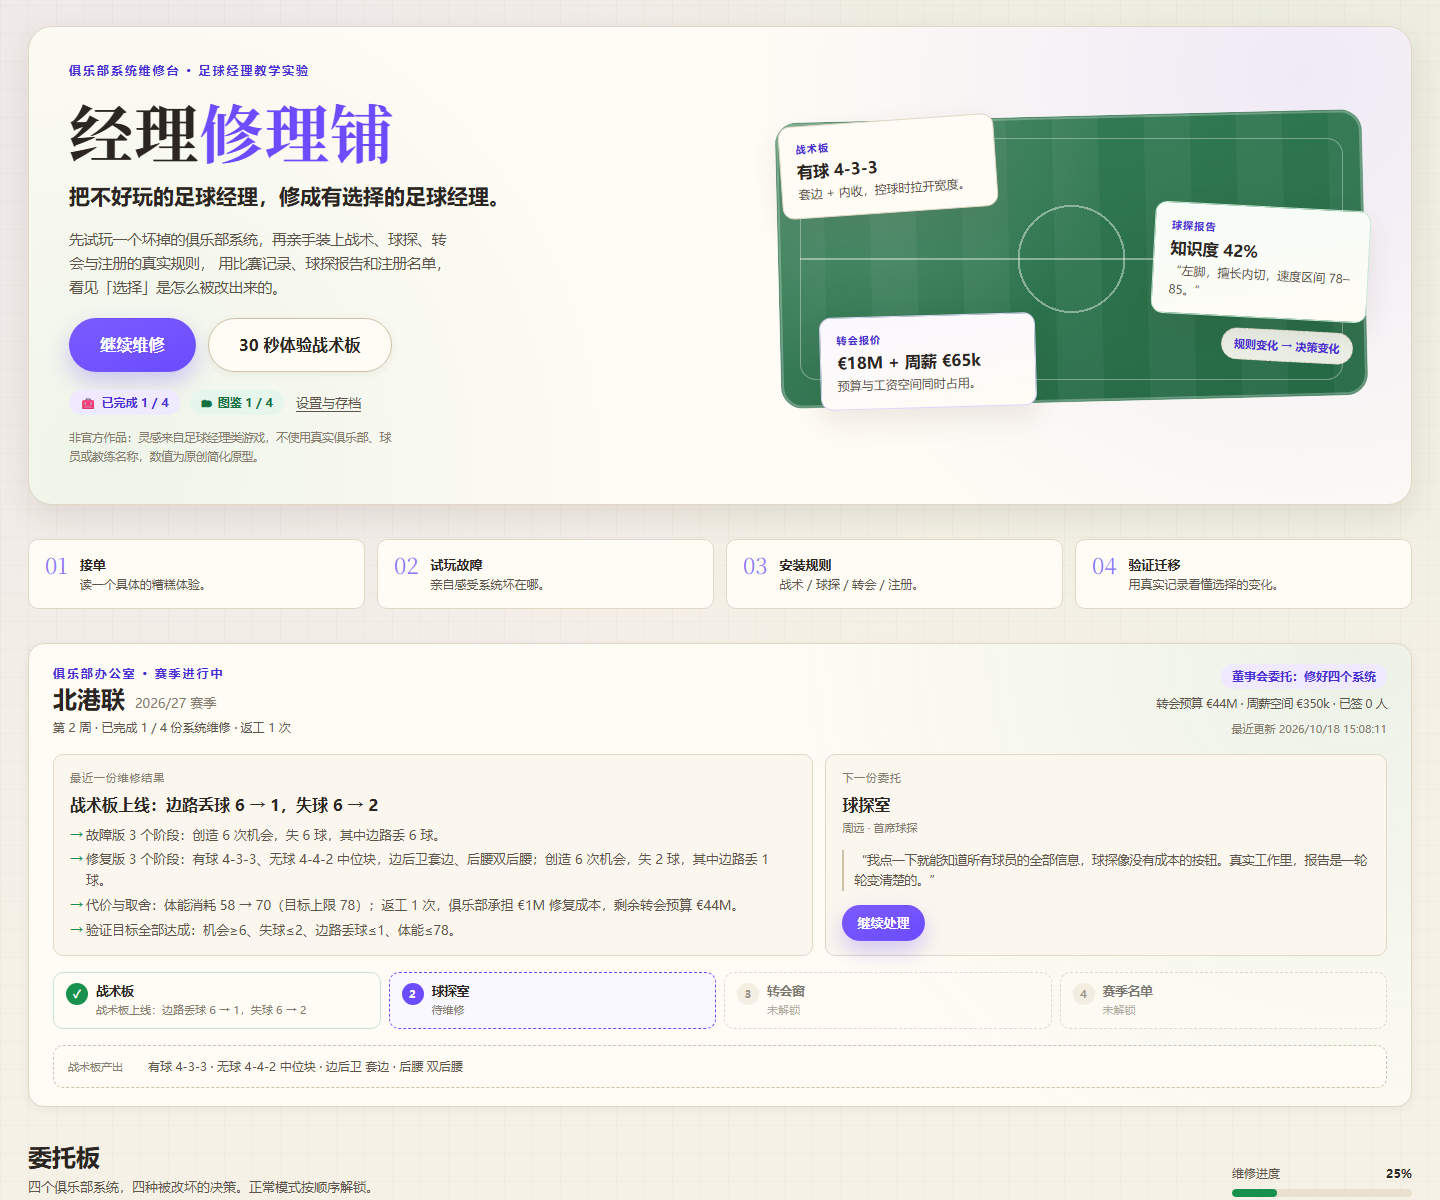
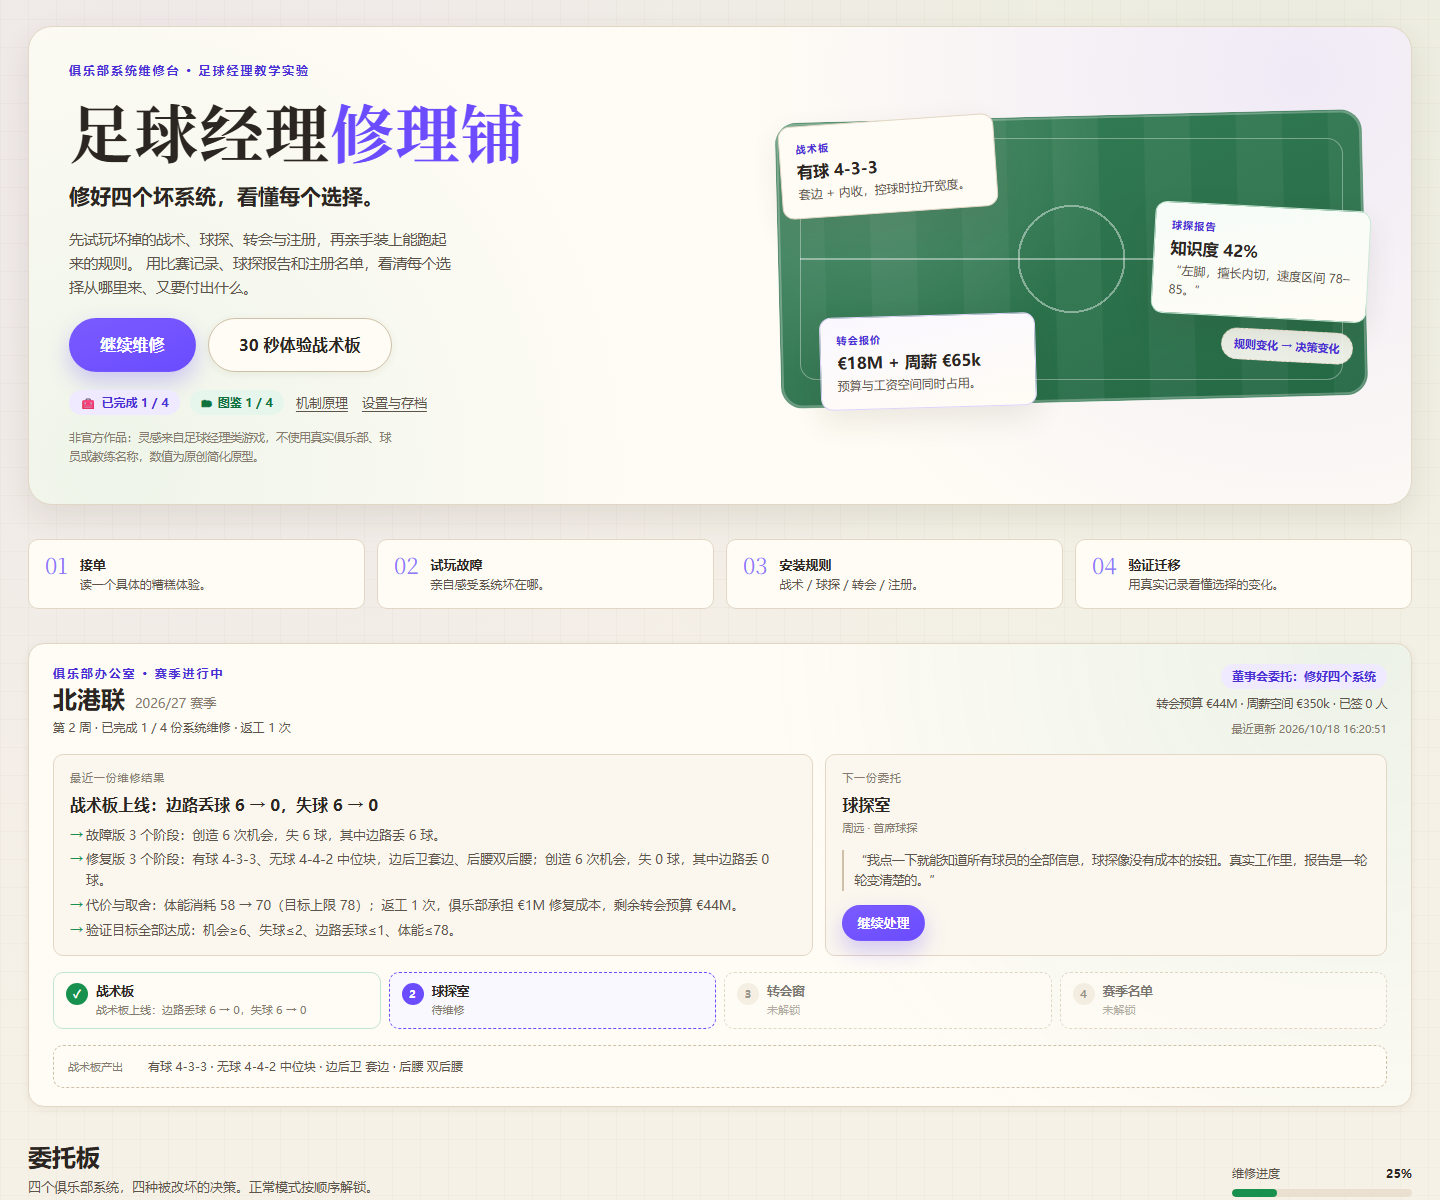
feat(v5.1): 改名足球经理修理铺，重写首屏标语与说明

Changed region(s): [[0.0312, 0.0925, 0.375, 0.2467], [0.2188, 0.3083, 0.2812, 0.3392]]

diff --git a/tests/app-flow.test.tsx b/tests/app-flow.test.tsx
@@ -1,4 +1,4 @@
-import { afterEach, beforeEach, describe, expect, it, vi } from 'vitest';
+import { afterEach, beforeEach, describe, expect, it, vi } from 'vitest';
 import { cleanup, fireEvent, render, screen } from '@testing-library/react';
 import { App } from '../src/app/App';
 import { PROGRESS_STORAGE_KEY, getDefaultProgress } from '../src/storage/persistence';
@@ -33,7 +33,7 @@ afterEach(() => {
 describe('用户流程冒烟测试（足球经理题材）', () => {
   it('从主页进入战术板，完整走完一关并解锁下一关', () => {
     render(<App />);
-    expect(screen.getByRole('heading', { level: 1 }).textContent).toContain('经理修理铺');
+    expect(screen.getByRole('heading', { level: 1 }).textContent).toContain('足球经理修理铺');
     expect(screen.getByText('委托板')).toBeTruthy();
 
     fireEvent.click(screen.getAllByRole('button', { name: '开始维修' })[0]);
@@ -68,7 +68,7 @@ describe('用户流程冒烟测试（足球经理题材）', () => {
     clickButton(/完成归档/);
 
     // finishArchive 会返回主页并写入正式进度。
-    expect(screen.getByRole('heading', { level: 1 }).textContent).toContain('经理修理铺');
+    expect(screen.getByRole('heading', { level: 1 }).textContent).toContain('足球经理修理铺');
     expect(screen.getAllByText(/已完成 1 \/ 4/).length).toBeGreaterThan(0);
     const raw = window.localStorage.getItem(PROGRESS_STORAGE_KEY);
     expect(raw).toBeTruthy();
@@ -161,7 +161,7 @@ describe('用户流程冒烟测试（足球经理题材）', () => {
     clickButton('重置全部进度');
     expect(screen.getByRole('dialog', { name: '确定重置全部进度？' })).toBeTruthy();
     clickButton('确认重置');
-    expect(screen.getByRole('heading', { level: 1 }).textContent).toContain('经理修理铺');
+    expect(screen.getByRole('heading', { level: 1 }).textContent).toContain('足球经理修理铺');
     expect(screen.getAllByText(/已完成 0 \/ 4/).length).toBeGreaterThan(0);
 
     const raw = window.localStorage.getItem(PROGRESS_STORAGE_KEY);

diff --git a/src/app/HomeScreen.tsx b/src/app/HomeScreen.tsx
@@ -40,12 +40,12 @@ export function HomeScreen() {
         <div className="hero-copy">
           <p className="eyebrow">俱乐部系统维修台 · 足球经理教学实验</p>
           <h1 className="hero-title">
-            经理<span className="hero-title-accent">修理铺</span>
+            足球经理<span className="hero-title-accent">修理铺</span>
           </h1>
-          <p className="hero-tagline">把不好玩的足球经理，修成有选择的足球经理。</p>
+          <p className="hero-tagline">修好四个坏系统，看懂每个选择。</p>
           <p className="hero-desc">
-            先试玩一个坏掉的俱乐部系统，再亲手装上战术、球探、转会与注册的真实规则，
-            用比赛记录、球探报告和注册名单，看见「选择」是怎么被改出来的。
+            先试玩坏掉的战术、球探、转会与注册，再亲手装上能跑起来的规则。
+            用比赛记录、球探报告和注册名单，看清每个选择从哪里来、又要付出什么。
           </p>
           <div className="hero-actions">
             <Button size="lg" onClick={() => startLevel(summary.nextLevel)}>
@@ -208,7 +208,7 @@ export function HomeScreen() {
           </button>
           。
         </p>
-        <p>《经理修理铺》v5.0 · 非官方足球经理题材 · 进度保存在本机浏览器。</p>
+        <p>《足球经理修理铺》v5.1 · 非官方足球经理题材 · 进度保存在本机浏览器。</p>
       </footer>
     </div>
   );

diff --git a/src/styles/global.css b/src/styles/global.css
@@ -1,5 +1,5 @@
 /* ==========================================================================
-   《经理修理铺》全局样式：俱乐部工作台 + 战术板 + 卡牌规则工具
+   《足球经理修理铺》全局样式：俱乐部工作台 + 战术板 + 卡牌规则工具
    ========================================================================== */
 
 :root {
@@ -2493,6 +2493,15 @@ html[data-reduce-motion='true'] *::after {
     width: 100%;
   }
 
+  .bench-arrow {
+    display: none;
+  }
+
+  .bench-mechanism {
+    left: 16px;
+    bottom: 16px;
+  }
+
   .how-strip {
     grid-template-columns: repeat(2, minmax(0, 1fr));
   }
@@ -2562,27 +2571,37 @@ html[data-reduce-motion='true'] *::after {
   }
 
   .hero-visual {
-    min-height: 280px;
+    min-height: 250px;
   }
 
   .bench-card {
-    width: 180px;
-    padding: 12px 14px;
+    width: calc(50% - 12px);
+    padding: 10px 12px;
+  }
+
+  .bench-card strong {
+    font-size: 13.5px;
+  }
+
+  .bench-card p {
+    font-size: 10.5px;
   }
 
   .bench-commission {
-    left: 0;
+    top: 14px;
+    left: 6px;
+    transform: rotate(-2deg);
   }
 
-  .bench-mechanism {
-    left: 24px;
-    bottom: 14px;
+  .bench-module {
+    top: 14px;
+    right: 6px;
+    transform: rotate(2deg);
   }
 
+  .bench-mechanism,
   .bench-arrow {
-    right: 4px;
-    bottom: 46px;
-    font-size: 10px;
+    display: none;
   }
 
   .how-strip {

diff --git a/index.html b/index.html
@@ -6,9 +6,9 @@
     <meta name="theme-color" content="#f6f1e7" />
     <meta
       name="description"
-      content="《经理修理铺》：试玩坏掉的足球经理系统，安装战术、球探、转会与注册规则，亲手理解决策如何被改变。非官方教学原型。"
+      content="《足球经理修理铺》：先试玩坏掉的战术、球探、转会与注册，再亲手装上能跑起来的规则。用比赛记录、球探报告和注册名单，看清每个选择从哪里来、又要付出什么。非官方教学原型。"
     />
-    <title>经理修理铺 · 把不好玩的足球经理，修成有选择的足球经理</title>
+    <title>足球经理修理铺 · 修好四个坏系统，看懂每个选择</title>
   </head>
   <body>
     <div id="root"></div>

diff --git a/src/content/showcaseSteps.ts b/src/content/showcaseSteps.ts
@@ -42,8 +42,8 @@ export const SHOWCASE_STEPS: ShowcaseStep[] = [
     order: 1,
     kind: 'intro',
     title: '一句话介绍产品',
-    description: '把不好玩的足球经理，修成有选择的足球经理。',
-    cue: '演示者口述：先试玩一个坏掉的俱乐部系统，再亲手装上真实规则，最后用比赛、报告与名单记录看见“选择”是怎么被改出来的。',
+    description: '修好四个坏系统，看懂每个选择。',
+    cue: '演示者口述：先试玩坏掉的战术、球探、转会与注册，再亲手装上能跑起来的规则；用比赛记录、报告和名单，看清每个选择从哪里来、又要付出什么。',
     targets: [],
     skipTransfer: false,
   },

diff --git a/README.md b/README.md
@@ -1,6 +1,6 @@
-# 经理修理铺
+# 足球经理修理铺
 
-> 把不好玩的足球经理，修成有选择的足球经理。
+> 修好四个坏系统，看懂每个选择。
 
 **在线试玩：** https://gotoanywhere2021.github.io/manager-repair-shop/
 **GitHub 仓库：** https://github.com/gotoanywhere2021/manager-repair-shop
@@ -8,7 +8,7 @@
 [![CI](https://github.com/gotoanywhere2021/manager-repair-shop/actions/workflows/ci.yml/badge.svg)](https://github.com/gotoanywhere2021/manager-repair-shop/actions/workflows/ci.yml)
 [![License: MIT](https://img.shields.io/badge/License-MIT-green.svg)](LICENSE)
 
-一个可以直接在浏览器里玩的足球经理教学游戏。你扮演俱乐部系统修理工：先试玩一个坏掉的俱乐部系统，再亲手安装战术、球探、转会与注册规则，调整参数、再次试玩，用真实的比赛记录、球探报告和注册名单理解「规则怎样改变选择」。
+一个可以直接在浏览器里玩的足球经理教学游戏。你扮演俱乐部系统修理工：先试玩坏掉的战术、球探、转会与注册，再亲手装上能跑起来的规则；用比赛记录、球探报告和注册名单，看清每个选择从哪里来、又要付出什么。
 
 - 技术栈：React 19 + TypeScript + Vite，Vitest 做规则测试。
 - 无后端、无付费 API、无密钥、无外部图片 CDN；进度保存在浏览器 localStorage。
@@ -17,6 +17,12 @@
 - 维修不再是唯一正确路径：每关有「正确模块 + 有副作用的错误模块」组成的模块池，允许装错、验证失败、回到维修台重试。
 
 ---
+
+## 本轮更新（v5.1.0）
+
+- 游戏名改为 **《足球经理修理铺》**。
+- 主标语改为「修好四个坏系统，看懂每个选择。」；首屏说明改成更具体的动作与结果，不再用「不好玩/有选择」这类抽象对比。
+- 浏览器标题、分享描述、展示模式口播、README 与机制导读同步更新。
 
 ## 本轮改进（v5.0.0）
 

diff --git a/docs/mechanism-primer.md b/docs/mechanism-primer.md
@@ -1,6 +1,6 @@
 # 机制底层知识导读
 
-> 配套游戏《经理修理铺》· 原创中文概括，参考《桌面游戏设计的基石：机制百科全书》
+> 配套游戏《足球经理修理铺》· 原创中文概括，参考《桌面游戏设计的基石：机制百科全书》
 
 这份导读回答一个问题：**为什么修好一条规则，会让游戏突然“有得选”？**
 
@@ -20,7 +20,7 @@
 4. **体验**：紧张、犹豫、后悔、成就感分别由哪条规则产生？
 5. **迁移**：换一个情境，这个结构还成立吗？
 
-《经理修理铺》的每一关都按这个顺序设计：先给你一个坏掉的规则，再让你亲手装上结构，最后用真实记录验证它是否改变了你的选择。
+《足球经理修理铺》的每一关都按这个顺序设计：先给你一个坏掉的规则，再让你亲手装上结构，最后用真实记录验证它是否改变了你的选择。
 
 ---
 
